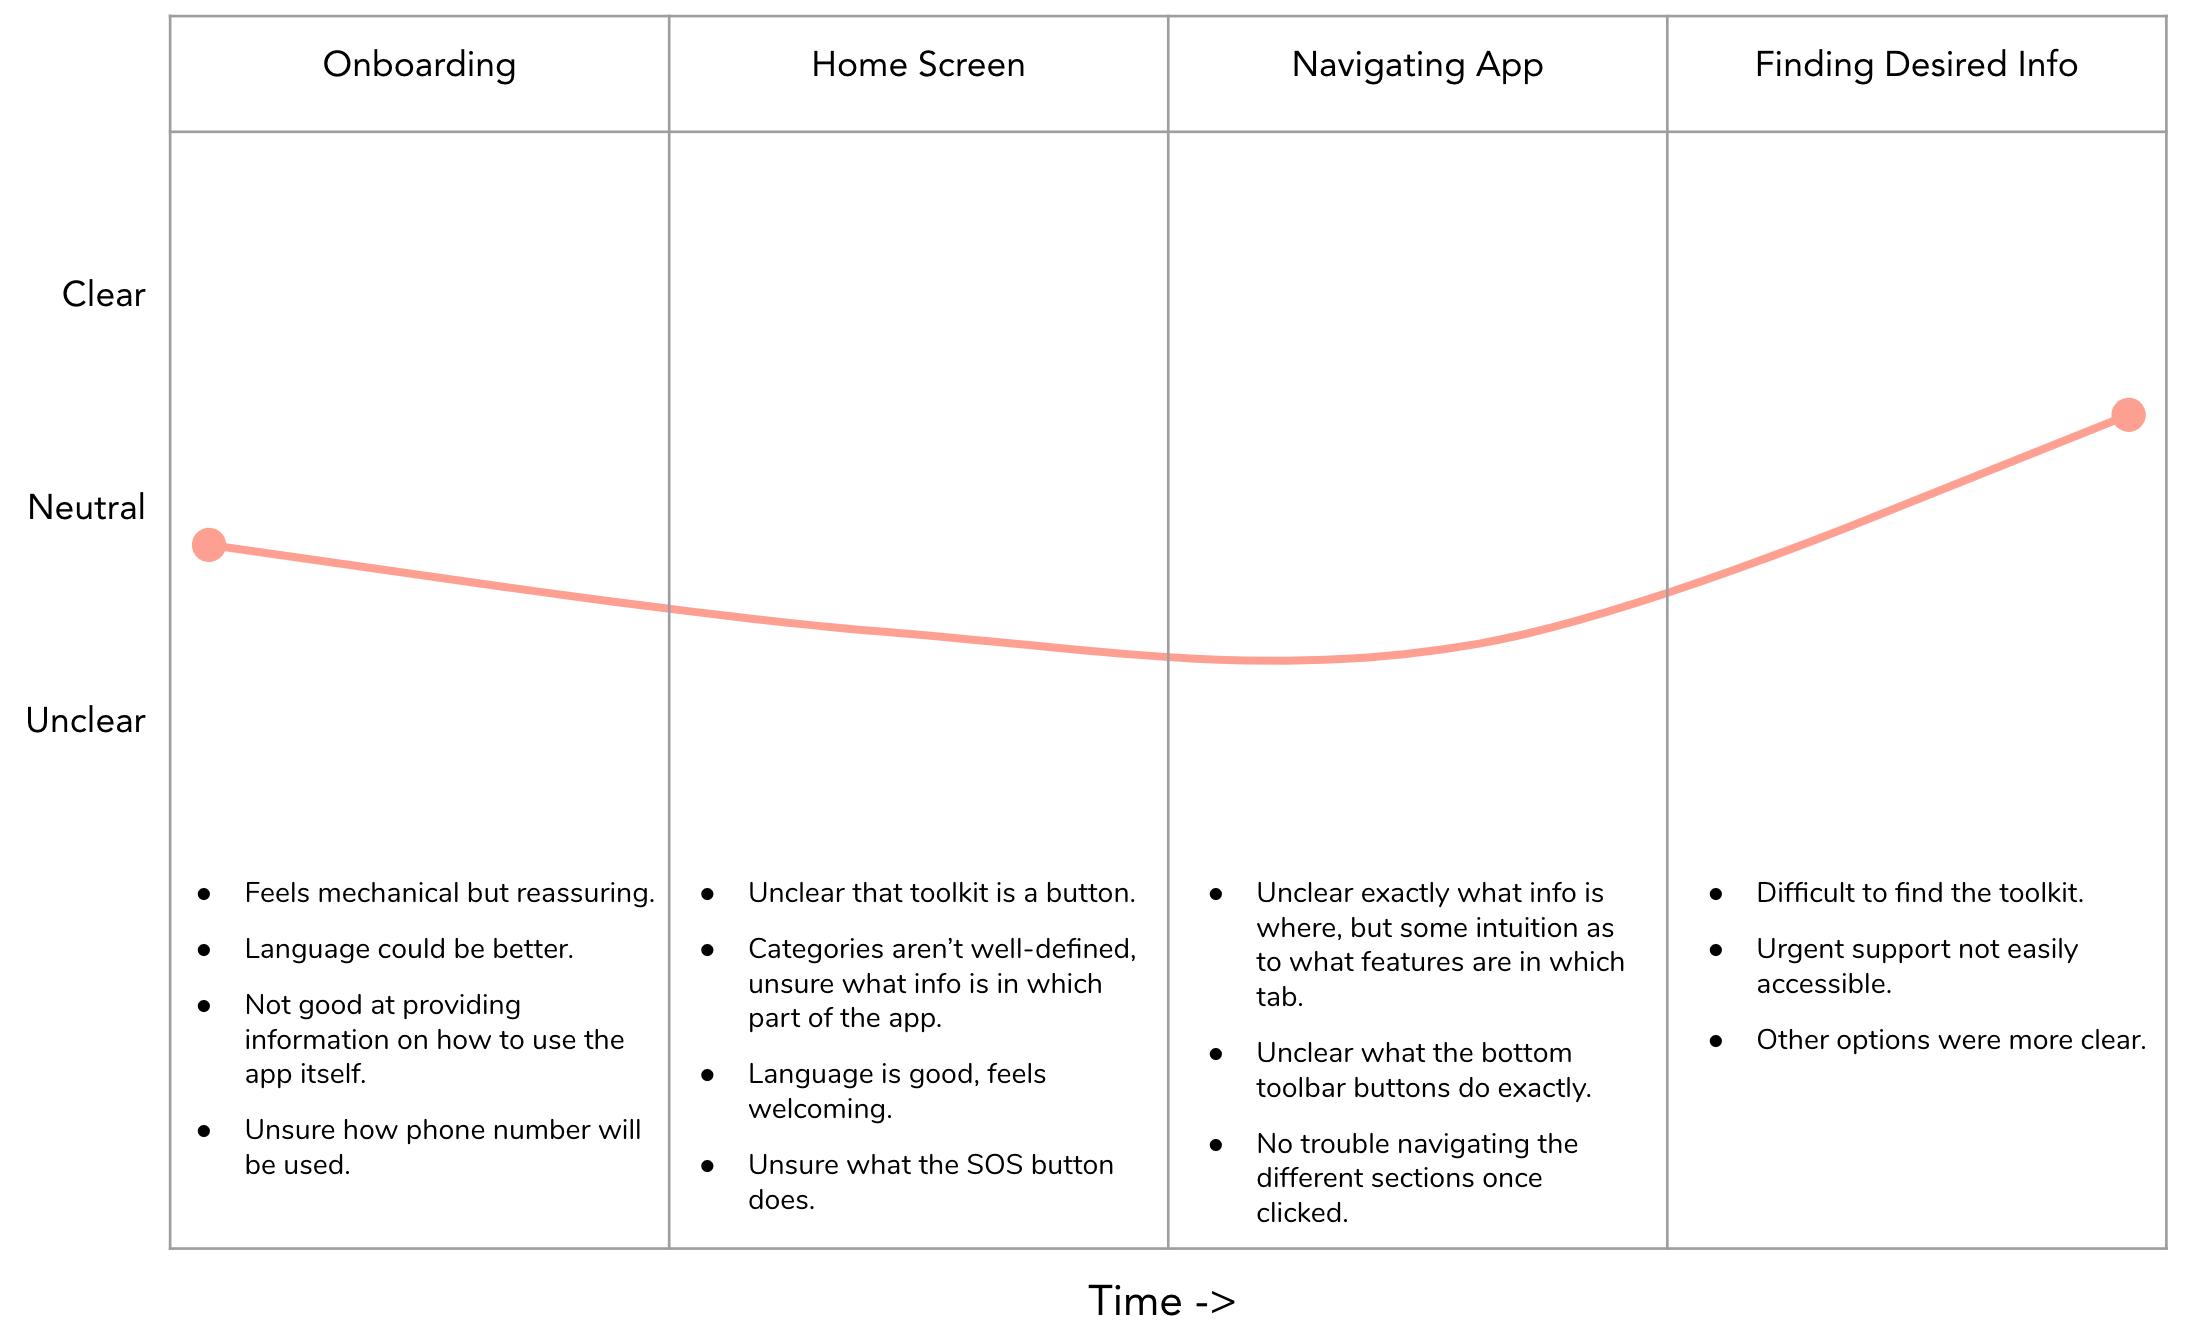
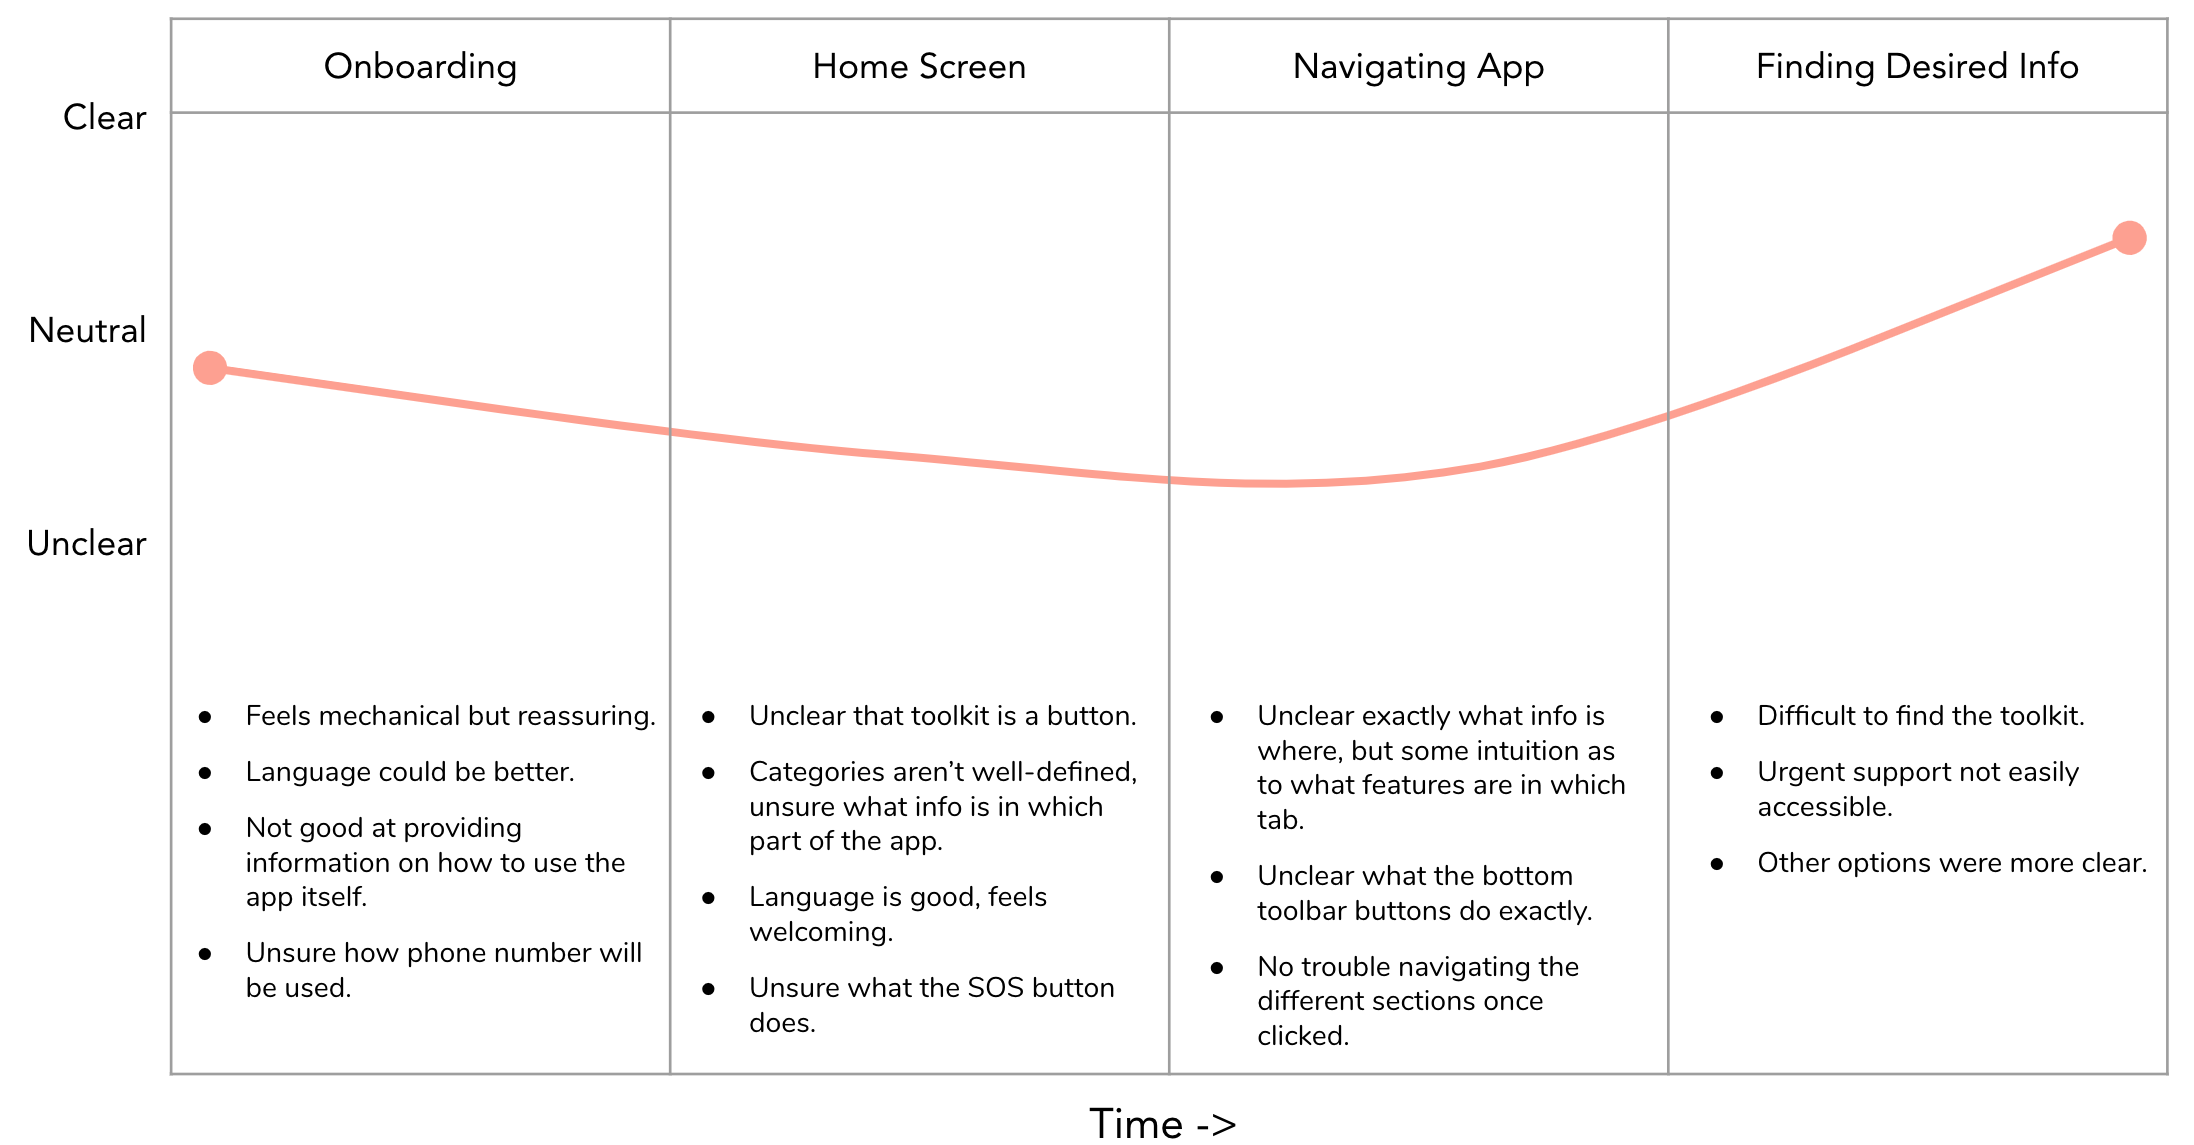
journey

diff --git a/sayfty.html b/sayfty.html
@@ -134,7 +134,7 @@ The first major design decision was choosing which area of the app to focus on. 
 <br><br><br><br>
 <p class="e" id = "designtitle"> 
                User Journey Map</p> 
-<div p style="width:image width px; font-size:80%; text-align:center;"><img class="img-fluid" src="img/journey.png" alt="joruney map" width="width" height="height" style="padding-bottom:0.5em; padding-left:9em; padding-right:9em" /> <br>
+<div p style="width:image width px; font-size:80%; text-align:center;"><img class="img-fluid" src="img/journey.png" alt="joruney map" width="width" height="height" style="padding-bottom:0.5em; padding-left:9.5em; padding-right:9em" /> <br>
                        </div>
 </p>
 <br>
